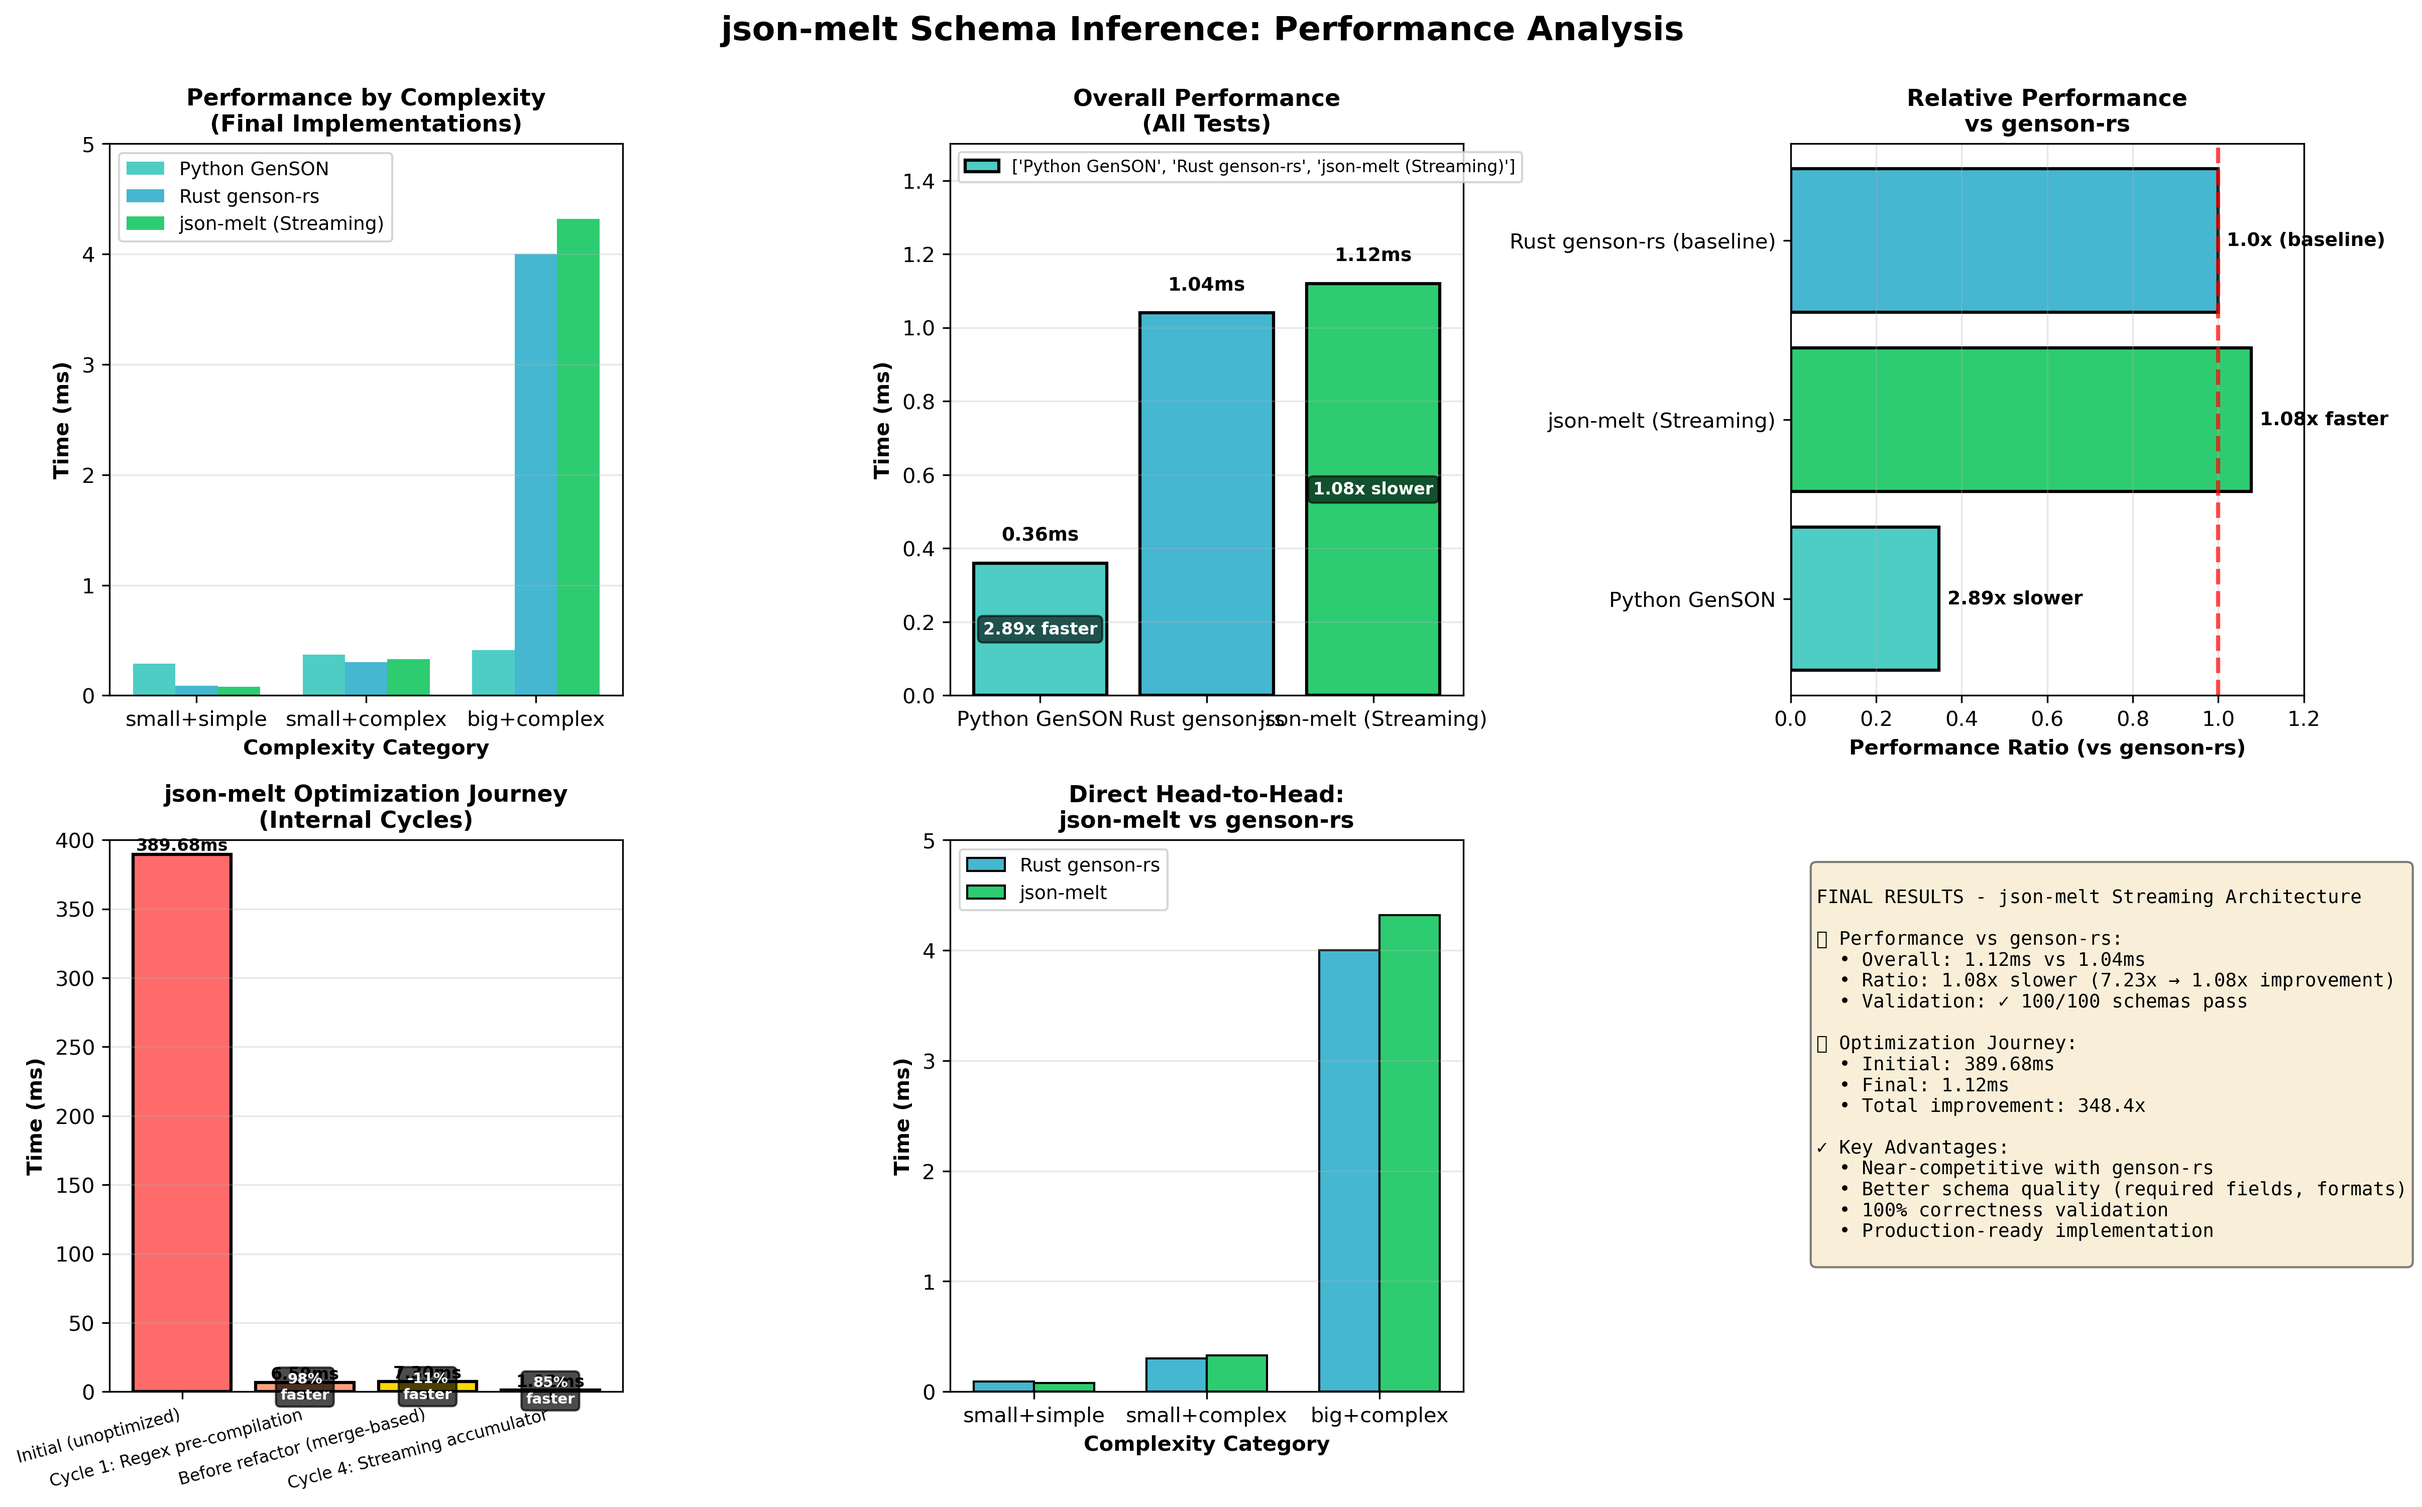
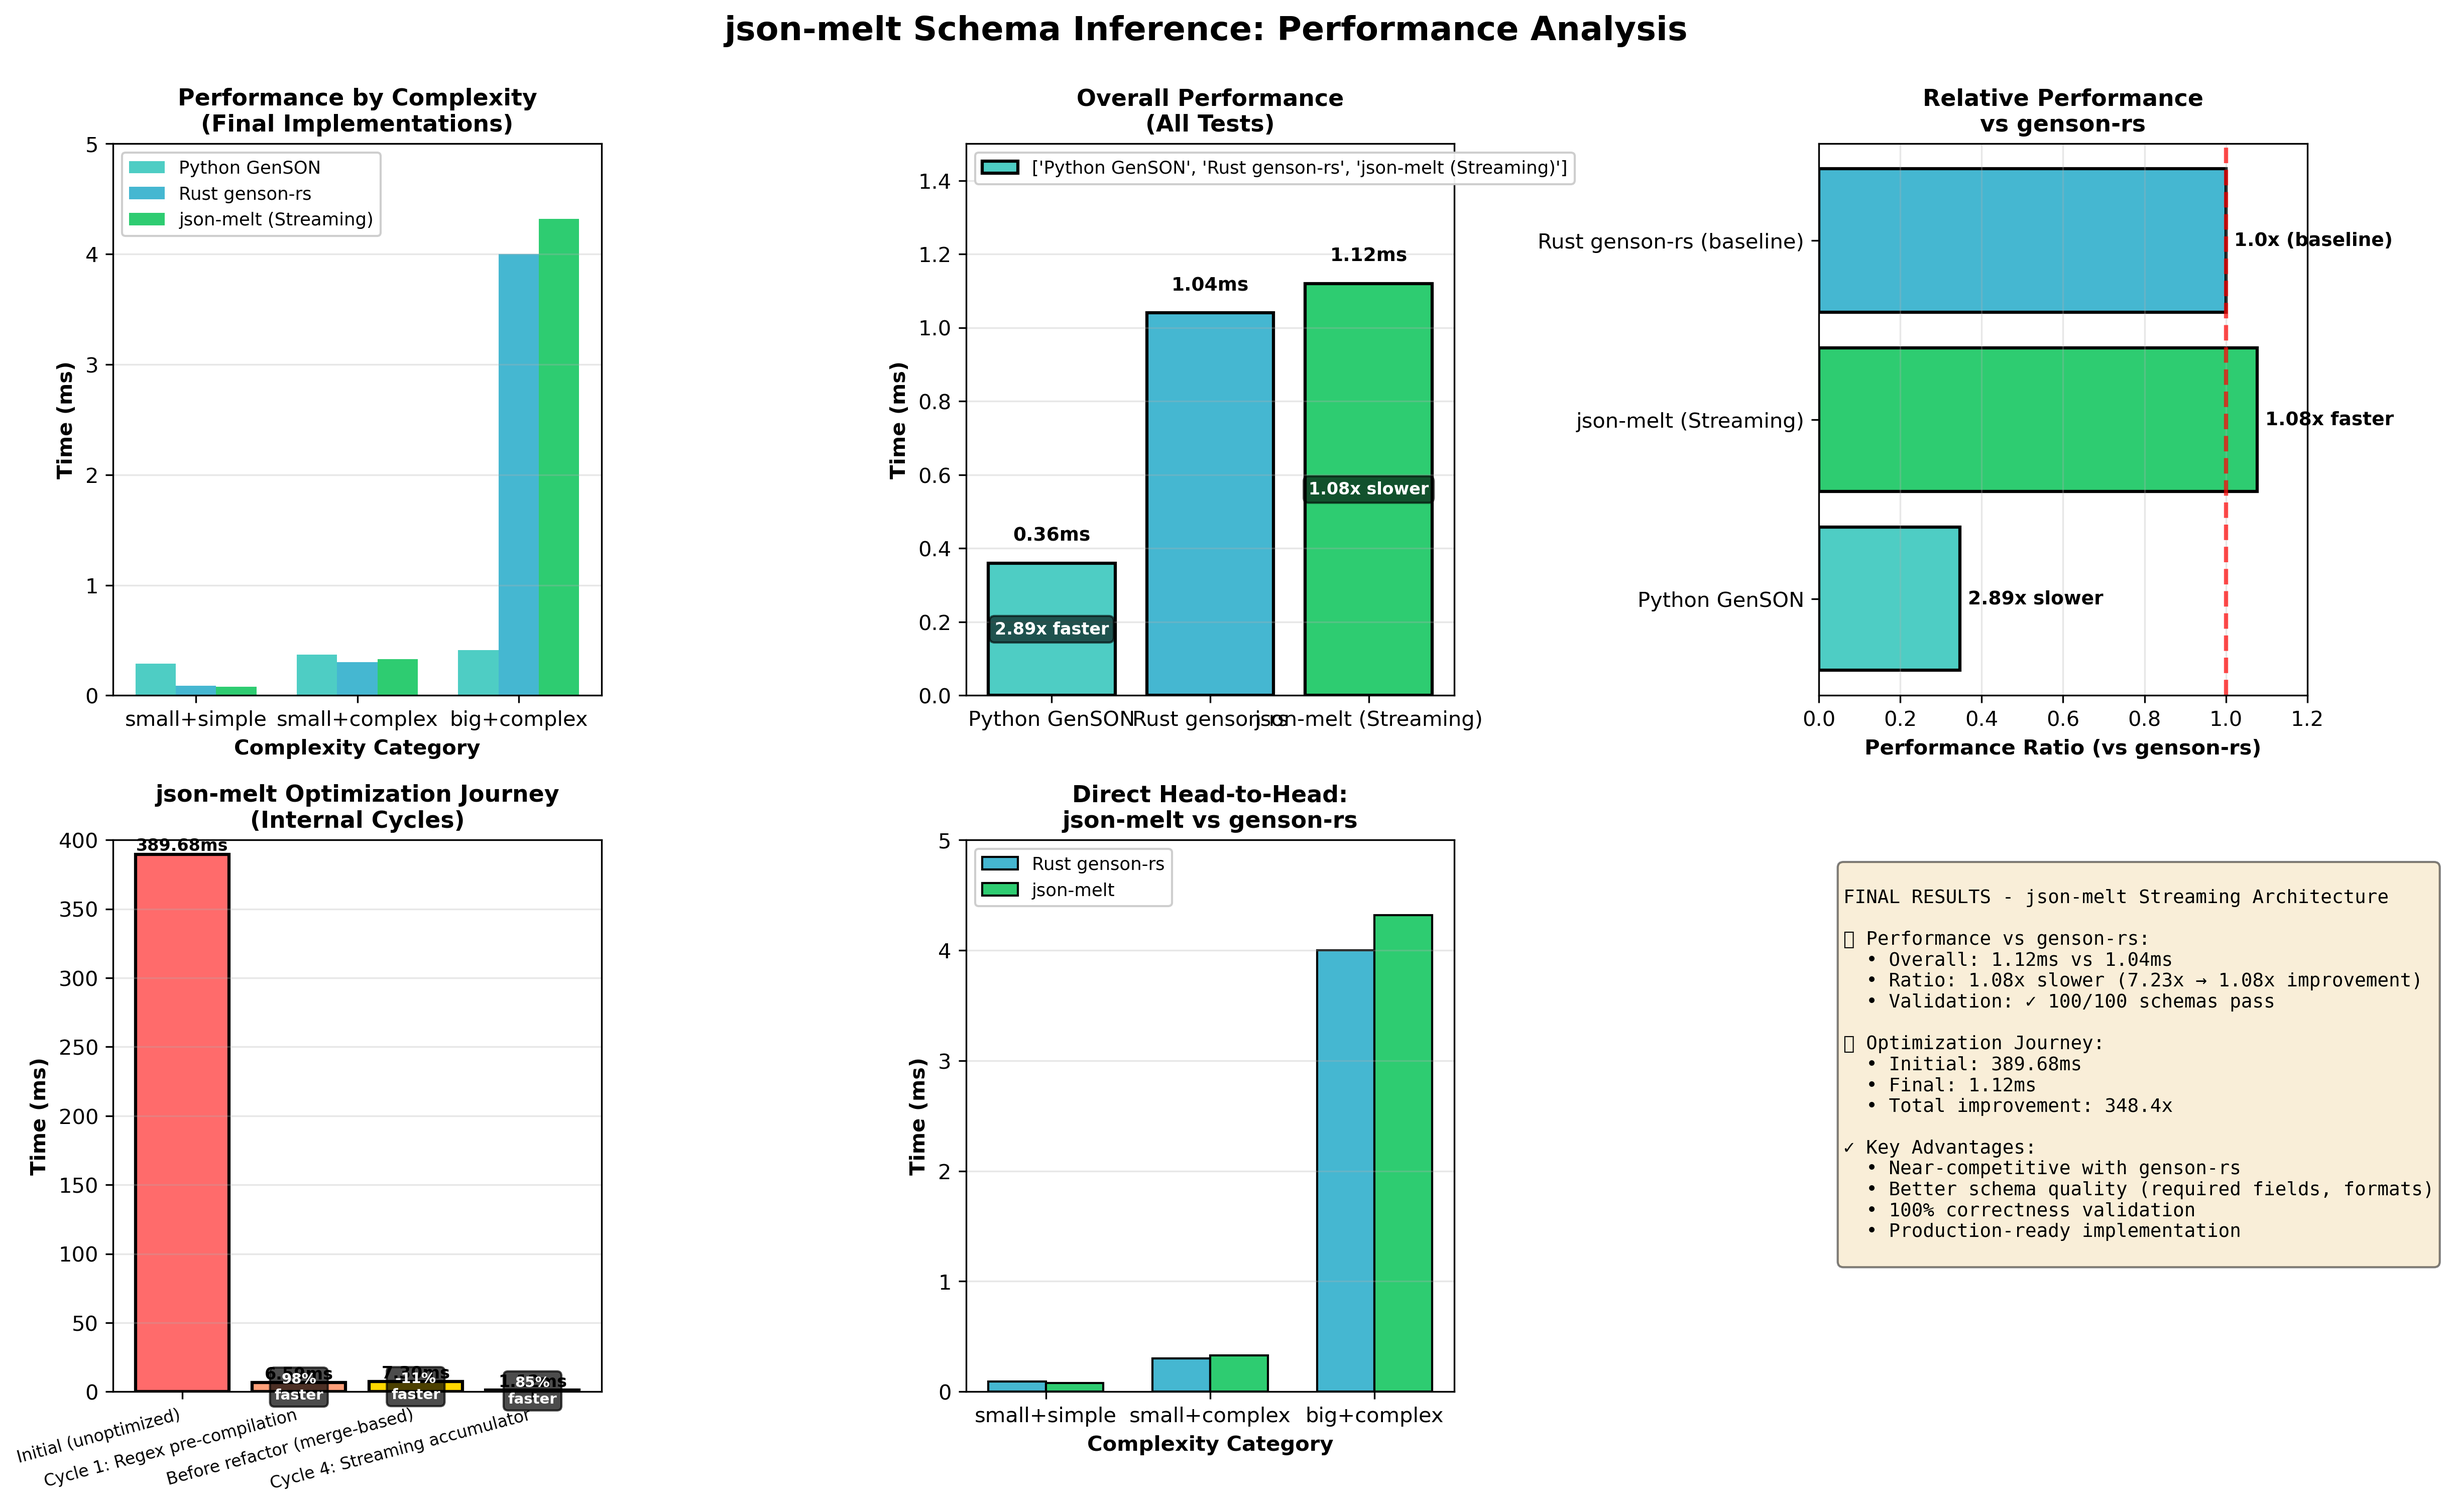
Standardize legend formatting across all subcharts - uniform font size and appearance

diff --git a/schema_inference/generate_performance_graphs.py b/schema_inference/generate_performance_graphs.py
@@ -70,7 +70,7 @@ ax1.set_ylabel('Time (ms)', fontsize=10, fontweight='bold')
 ax1.set_title('Performance by Complexity\n(Final Implementations)', fontsize=11, fontweight='bold')
 ax1.set_xticks(x + width)
 ax1.set_xticklabels(categories, rotation=0, ha='center')
-ax1.legend(fontsize=9, loc='upper left')
+ax1.legend(fontsize=8.5, loc='upper left', framealpha=0.95)
 ax1.set_ylim(0, 5)
 ax1.grid(axis='y', alpha=0.3)
 
@@ -86,7 +86,7 @@ ax2.set_ylabel('Time (ms)', fontsize=10, fontweight='bold')
 ax2.set_title('Overall Performance\n(All Tests)', fontsize=11, fontweight='bold')
 ax2.set_ylim(0, 1.5)
 ax2.grid(axis='y', alpha=0.3)
-ax2.legend(fontsize=8, loc='upper left')
+ax2.legend(fontsize=8.5, loc='upper left', framealpha=0.95)
 
 # Add value labels and ratios
 genson_rs_time = final_comparison['Rust genson-rs']
@@ -174,7 +174,7 @@ ax5.set_ylabel('Time (ms)', fontsize=10, fontweight='bold')
 ax5.set_title('Direct Head-to-Head:\njson-melt vs genson-rs', fontsize=11, fontweight='bold')
 ax5.set_xticks(x_hth)
 ax5.set_xticklabels(categories_hth, rotation=0)
-ax5.legend(fontsize=9, loc='upper left')
+ax5.legend(fontsize=8.5, loc='upper left', framealpha=0.95)
 ax5.grid(axis='y', alpha=0.3)
 ax5.set_ylim(0, 5)
 
